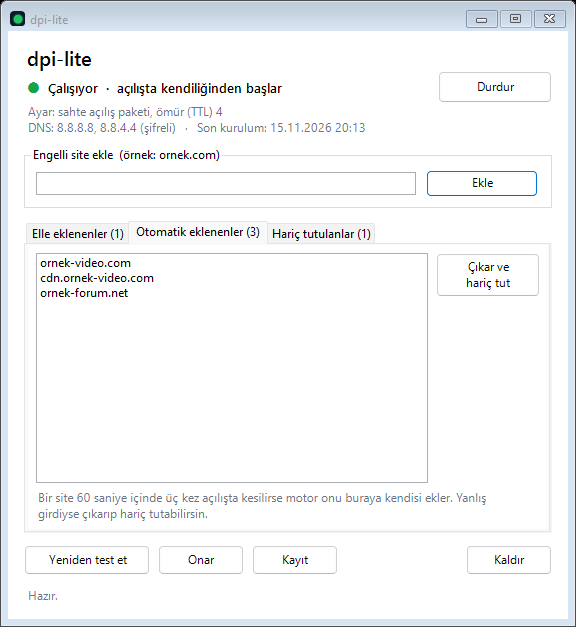
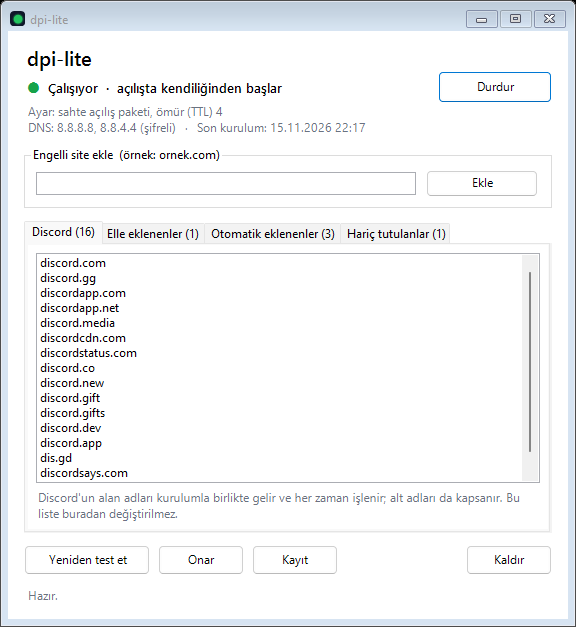
Kontrol penceresi: Discord alan adlari ayri bir sekmede gorunur
Discord listesi yerlesik oldugu icin yalnizca bir not satirinda geciyordu ve
pencerede "Discord yok" izlenimi veriyordu. Artik ilk sekme Discord'un alan
adlarini (salt okunur) gosteriyor. README goruntusu ve aciklamasi guncellendi.

Changed region(s): [[0.0625, 0.3636, 0.9375, 0.8485], [0.9062, 0.2727, 0.9375, 0.303], [0.5938, 0.1818, 0.625, 0.2121]]

diff --git a/README.md b/README.md
@@ -85,6 +85,8 @@ Başlat menüsündeki ya da masaüstündeki "dpi-lite" kısayolu (kısayol seçm
 kurduysan `panel.cmd`) yukarıdaki pencereyi açar:
 
 - Servisin durumunu, seçili ayarı ve DNS'i gösterir; servisi durdurup başlatır.
+- Listeleri dört sekmede gösterir: Discord (kurulumla gelen, her zaman işlenen alan adları), elle
+  eklenenler, otomatik eklenenler, hariç tutulanlar.
 - Engelli site ekler, elle eklenenleri çıkarır.
 - Motorun kendi öğrendiği siteleri gösterir; yanlış gireni çıkarıp hariç tutar.
 - Hattı yeniden test eder ("Yeniden test et"), kurulumu onarır, kurulum kaydını açar, kaldırır.
